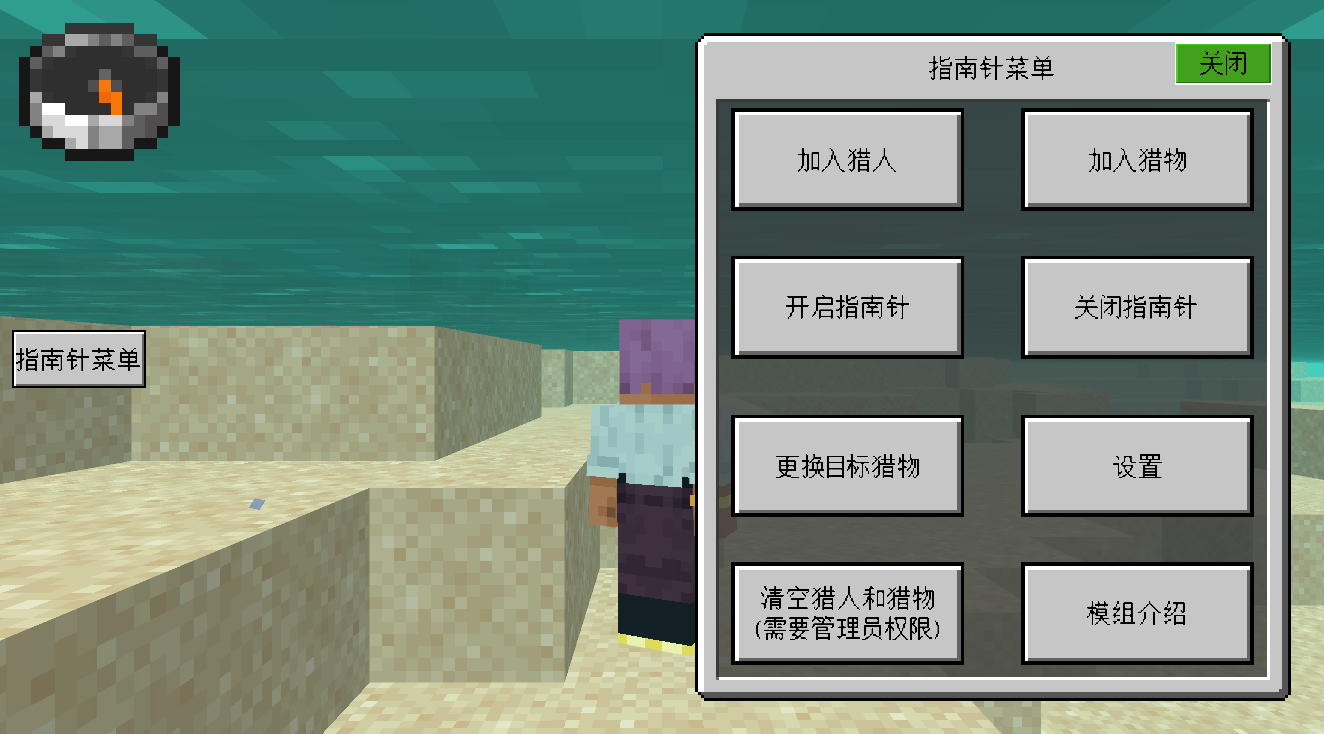
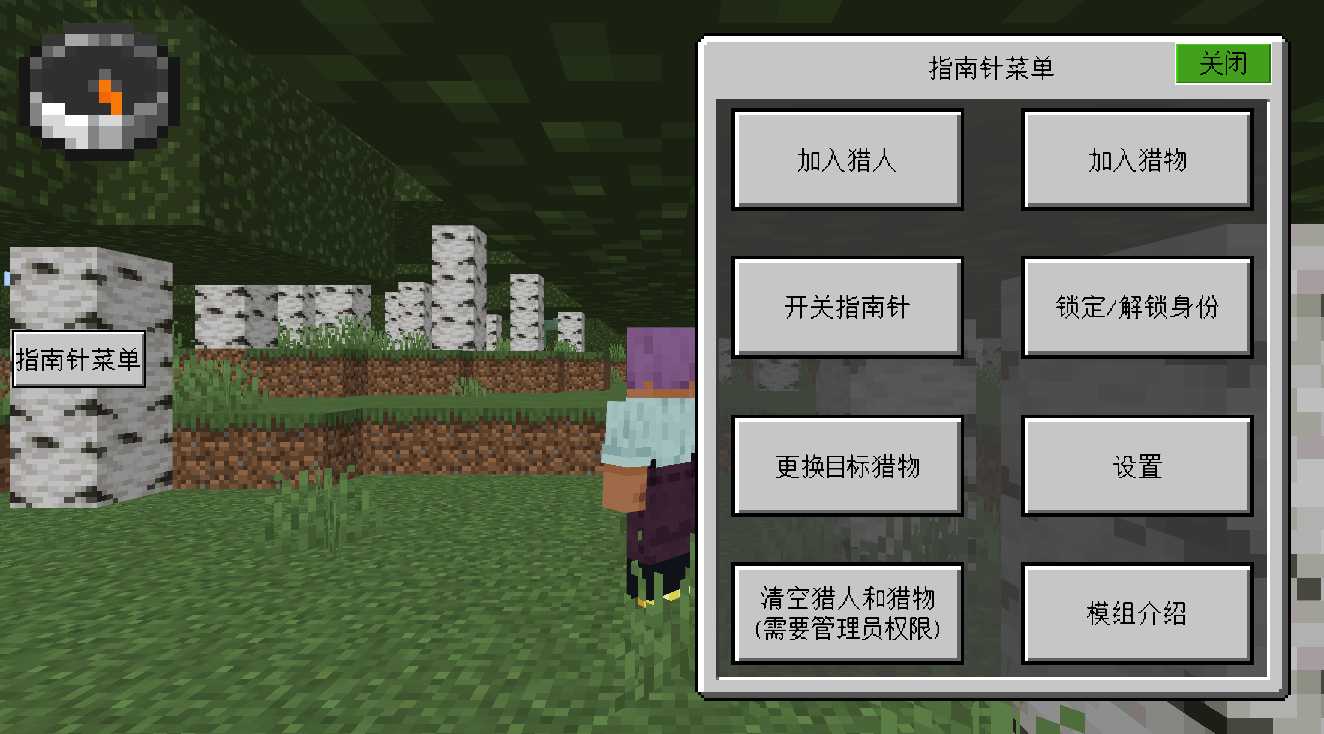
添加了开关指南针的单个按钮

diff --git a/behavior_pack_f3qJXWZT/hunter_player_compass_mod/HunterPlayerCompassScreen.py b/behavior_pack_f3qJXWZT/hunter_player_compass_mod/HunterPlayerCompassScreen.py
@@ -49,8 +49,8 @@ class HunterPlayerCompassScreen(ScreenNode):
         self.AddTouchEventHandler("/menu_panel/messagebox_panel/button_panel/button(1)", self.OnJoinHunterButtonTouch, {"isSwallow": True})
         self.AddTouchEventHandler("/menu_panel/messagebox_panel/button_panel/button(2)", self.OnJoinPreyButtonTouch, {"isSwallow": True})
         self.AddTouchEventHandler("/menu_panel/messagebox_panel/button_panel/button(5)", self.OnCleanListButtonTouch, {"isSwallow": True})
-        self.AddTouchEventHandler("/menu_panel/messagebox_panel/button_panel/button(3)", self.OnActivateButtonTouch, {"isSwallow": True})
-        self.AddTouchEventHandler("/menu_panel/messagebox_panel/button_panel/button(4)", self.OnStopButtonTouch, {"isSwallow": True})
+        self.AddTouchEventHandler("/menu_panel/messagebox_panel/button_panel/button(3)", self.OnSwitchCompassButtonTouch, {"isSwallow": True})
+        self.AddTouchEventHandler("/menu_panel/messagebox_panel/button_panel/button(4)", self.OnLockOrUnlockButtonTouch, {"isSwallow": True})
         self.AddTouchEventHandler("/menu_panel/messagebox_panel/button_panel/button(6)", self.OnMyWordsButtonTouch, {"isSwallow": True})
         self.AddTouchEventHandler("/menu_panel/messagebox_panel/button_panel/button(7)", self.OnActivateButtonTouch, {"isSwallow": True})
         self.AddTouchEventHandler("/menu_panel/messagebox_panel/button_panel/button(8)", self.OnSettingButtonTouch, {"isSwallow": True})
@@ -333,7 +333,7 @@ class HunterPlayerCompassScreen(ScreenNode):
         # 按钮事件
         touchEvent = args["TouchEvent"]
         if touchEvent == touchEventEnum.TouchUp:
-            print("(3)")
+            print("(7)")
             player_id = clientApi.GetLocalPlayerId()
             player_name_comp = clientApi.GetEngineCompFactory().CreateName(player_id)
             player_name = player_name_comp.GetName()
@@ -341,7 +341,7 @@ class HunterPlayerCompassScreen(ScreenNode):
             clientSystem = clientApi.GetSystem("hunter_player_compass_mod", "PlayerCompassClientSystem")
             clientSystem.NotifyToServer("OnActivateButtonTouch", data)
 
-    def OnStopButtonTouch(self, args):
+    def OnLockOrUnlockButtonTouch(self, args):
         touchEventEnum = clientApi.GetMinecraftEnum().TouchEvent
         # 按钮事件
         touchEvent = args["TouchEvent"]
@@ -352,7 +352,19 @@ class HunterPlayerCompassScreen(ScreenNode):
             player_name = player_name_comp.GetName()
             data = {"player_id": player_id, "player_name": player_name, "message": "stop"}
             clientSystem = clientApi.GetSystem("hunter_player_compass_mod", "PlayerCompassClientSystem")
-            clientSystem.NotifyToServer("OnStopButtonTouch", data)
+            clientSystem.NotifyToServer("OnLockOrUnlockButtonTouch", data)
+
+    def OnSwitchCompassButtonTouch(self, args):
+        touchEventEnum = clientApi.GetMinecraftEnum().TouchEvent
+        touchEvent = args["TouchEvent"]
+        if touchEvent == touchEventEnum.TouchUp:
+            print("(3)")
+            player_id = clientApi.GetLocalPlayerId()
+            player_name_comp = clientApi.GetEngineCompFactory().CreateName(player_id)
+            player_name = player_name_comp.GetName()
+            data = {"player_id": player_id, "player_name": player_name, "message": "switch"}
+            clientSystem = clientApi.GetSystem("hunter_player_compass_mod", "PlayerCompassClientSystem")
+            clientSystem.NotifyToServer("OnSwitchCompassButtonTouch", data)
 
     def OnMyWordsButtonTouch(self, args):
         touchEventEnum = clientApi.GetMinecraftEnum().TouchEvent

diff --git a/behavior_pack_f3qJXWZT/hunter_player_compass_mod/PlayerCompassServerSystem.py b/behavior_pack_f3qJXWZT/hunter_player_compass_mod/PlayerCompassServerSystem.py
@@ -46,7 +46,9 @@ class PlayerCompassServerSystem(ServerSystem):
         self.ListenForEvent("hunter_player_compass_mod", "PlayerCompassClientSystem",
                             "OnActivateButtonTouch", self, self.compass_using_server_event_touch_button)
         self.ListenForEvent("hunter_player_compass_mod", "PlayerCompassClientSystem",
-                            "OnStopButtonTouch", self, self.compass_using_server_event_touch_button)
+                            "OnSwitchCompassButtonTouch", self, self.compass_using_server_event_touch_button)
+        self.ListenForEvent("hunter_player_compass_mod", "PlayerCompassClientSystem",
+                            "OnLockOrUnlockButtonTouch", self, self.lock_or_unlock_identity)
         self.ListenForEvent("hunter_player_compass_mod", "PlayerCompassClientSystem",
                             "OnMyWordsButtonTouch", self, self.notify_players)
         self.ListenForEvent("hunter_player_compass_mod", "PlayerCompassClientSystem",
@@ -328,6 +330,11 @@ class PlayerCompassServerSystem(ServerSystem):
         # 换人
         elif player_id in hunter_id_values:
 
+            if "is_active" not in self.hunter_ids[str(player_id)]:
+                self.hunter_ids[str(player_id)]["is_active"] = 0
+            if "target" not in self.hunter_ids[str(player_id)]:
+                self.hunter_ids[str(player_id)]["target"] = 0
+
             prey_sum = len(self.prey_ids)
 
             if message == "activate or change":
@@ -350,6 +357,23 @@ class PlayerCompassServerSystem(ServerSystem):
                 msg = "系统：已停用猎人指南针"
                 msg_comp.NotifyOneMessage(player_id, msg)
 
+            elif message == "switch":
+                if self.hunter_ids[str(player_id)]["is_active"] == 1:
+                    self.hunter_ids[str(player_id)]["is_active"] = 0
+                    self.hunter_ids[str(player_id)]["target"] = 0
+                    msg_comp = serverApi.GetEngineCompFactory().CreateMsg(player_id)
+                    msg = "系统：已停用猎人指南针"
+                    msg_comp.NotifyOneMessage(player_id, msg)
+                else:
+                    self.hunter_ids[str(player_id)]["is_active"] = 1
+                    self.hunter_ids[str(player_id)]["target"] = 1
+                    prey_id = self.prey_ids[self.hunter_ids[str(player_id)]["target"] - 1]
+                    prey_name_comp = serverApi.GetEngineCompFactory().CreateName(prey_id)
+                    prey_name = prey_name_comp.GetName()
+                    msg_comp = serverApi.GetEngineCompFactory().CreateMsg(player_id)
+                    msg = "系统：已启用猎人指南针,指向目标 " + prey_name
+                    msg_comp.NotifyOneMessage(player_id, msg)
+
         else:
             msg_comp = serverApi.GetEngineCompFactory().CreateMsg(player_id)
             msg = "系统：你不是猎人，无法使用猎人指南针"
@@ -357,6 +381,9 @@ class PlayerCompassServerSystem(ServerSystem):
 
         print(self.hunter_ids)
         print(self.prey_ids)
+
+    def lock_or_unlock_identity(self):
+        pass
 
     def on_script_tick(self):
         # 1. 初始化缓存字典
